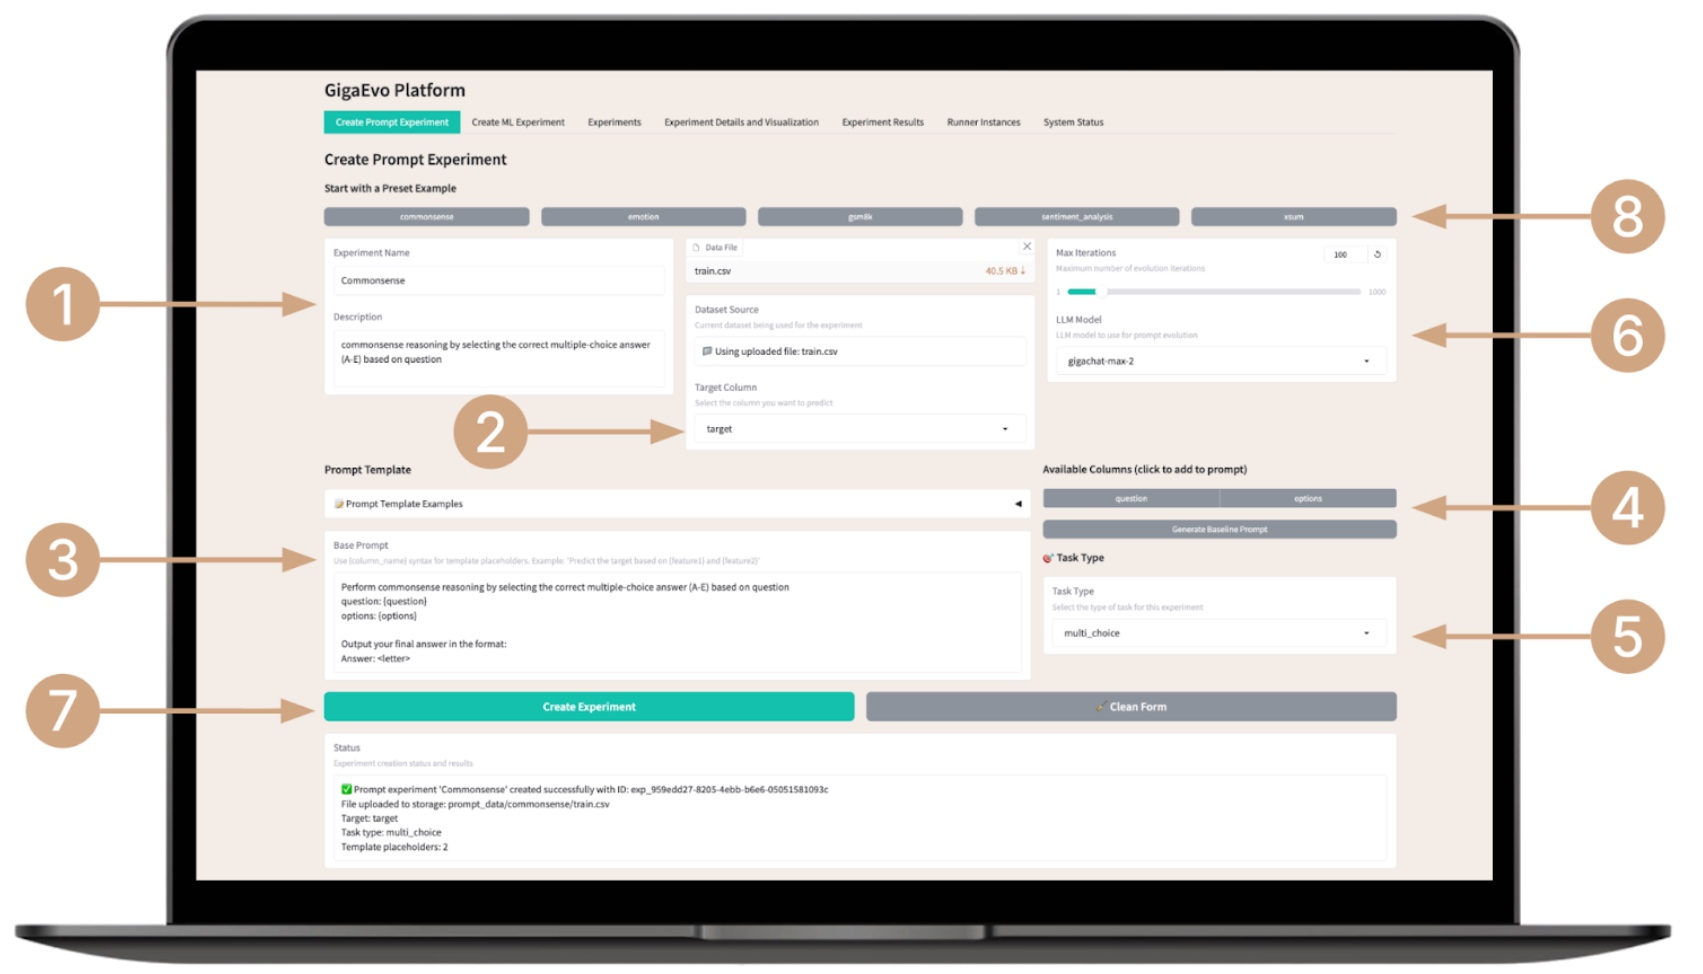
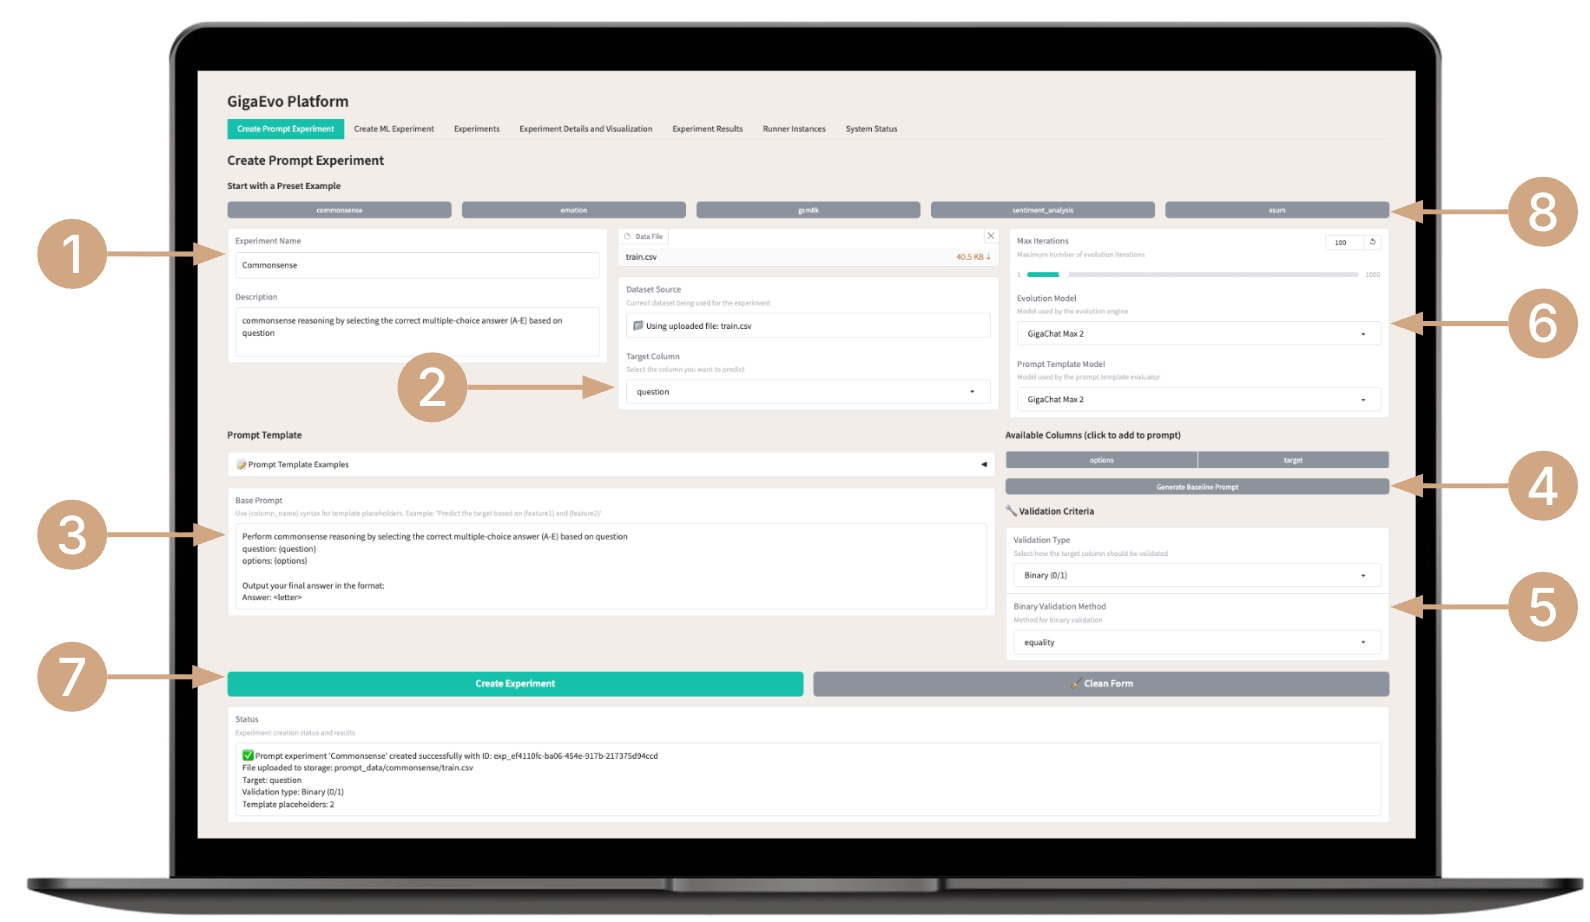
Evolution upd

Changed region(s): [[0.0, 0.0, 1.0, 1.0]]

diff --git a/docs/index.html b/docs/index.html
@@ -954,8 +954,23 @@ Answer : [expected answer]
 
                                 <ol start="4">
                                     <li>Вы можете использовать автоматическое генерирование базового промпта для эволюции из шаблона или автоматически добавить столбцы из загруженного документа</li>
-                                    <li>Выберите тип задачи ( <code>classification</code>, <code>multi_choice</code>, <code>math</code>, <code>summarization</code> )</li>
-                                    <li>Настройте дополнительные параметры — количество поколений, тип LLM-модели и другие опции.</li>
+                                    <li>Выберите тип валидации (binary, continuous) и метрику оценки, релевантную для вашей задачи:
+                                        <p>Бинарная (<strong>Binary (0/1)</strong> )- для задач с точным ответом </p>
+                                        <ul>
+                                            <li><strong>Equality</strong> - точное совпадение с эталоном</li>
+                                            <li><strong>Substring</strong> - совпадение пар слов</li>
+                                            <li><strong>RegExp</strong> - извлечение ответа по заданному шаблону</li>
+                                        </ul>
+                                        <p>Непрерывная (<strong>Continuous (0..1)</strong>) - для задач генерации текста </p>
+                                        <ul>
+                                            <li><strong>ROUGE-1</strong> - совпадение отдельных слов</li>
+                                            <li><strong>ROUGE-2</strong> - эталон содержится в ответе</li>
+                                            <li><strong>ROUGE-L</strong> - общая подпоследовательность</li>
+                                            <li><strong>BERTScore</strong> - общая подпоследовательность</li>
+                                            <li><strong>BLEU</strong> - качество перевода</li>
+                                        </ul>
+                                    </li>
+                                    <li>Настройте дополнительные параметры - количество поколений, тип LLM-модели для эволюции, тип LLM-модели для валидации.</li>
                                     <li>Создайте эксперимент по кнопке Create Experiment — система автоматически присвоит ему идентификатор формата.</li>
                                     <li>Можете выбрать шаблонный эксперимент из списка — система автоматически заполнит необходимые поля и загрузит данные, останется только запустить.</li>
                                 </ol>
@@ -967,18 +982,6 @@ Answer : [expected answer]
                                     <li><strong>Этапы многошаговых агентов</strong> - оптимизация промптов для сложных систем с несколькими этапами работы</li>
                                 </ul>
 
-                                <h5>Валидируем качество промптов</h5>
-                                
-                                <p>Система использует тот же подход, что и для ML-задач: создает популяцию промптов, оценивает их качество на ваших данных и итеративно улучшает решение.</p>
-                                
-                                <h5>GigaEvo поддерживает следующие режимы:</h5>
-    
-                                <ol>
-                                    <li><strong>Бинарная классификация текста</strong> (<code>classification</code>) - модель возвращает вероятность (0.0-1.0); таргет - 0 или 1</li>
-                                    <li><strong>Выбор из нескольких вариантов ответа</strong> (<code>multi_choice</code>) - модель возвращает букву ("A", "B", "C", "D", …); поддерживается до 26 классов (A-Z)</li>
-                                    <li><strong>Решение математических задач</strong> (<code>math</code>) - модель возвращает численный ответ (42, 3.1415, …)</li>
-                                    <li><strong>Суммаризация входного текста в свободном виде</strong> (<code>summarization</code>) - строка с кратким пересказом, сравниваем похожесть двух текстов</li>
-                                </ol>
                                 <h5>Используем результаты</h5>
     
                                 <ol>
@@ -989,13 +992,12 @@ Answer : [expected answer]
 
                                 <h5>Что планируем добавить</h5>
                                 
-                                <p>В следующих версиях будет добавлен функционал кастомного формата проверки вывода LLM:</p>
+                                <p>В следующих версиях будет добавлен функционал:</p>
                                 
                                 <ul>
-                                    <li>Структурированные форматы (JSON, XML)</li>
-                                    <li>Регулярные выражения</li>
+                                    <li>Структурированные форматы вывода (JSON, XML)</li>
                                     <li>Оценка другой языковой моделью (LLM-as-a-judge)</li>
-                                    <li>Свои собственные метрики на Python</li>
+                                    <li>Пользовательские метрики на Python</li>
                                 </ul>
 
                                 <p>Функция находится в активном развитии.</p>

diff --git a/docs/index-en.html b/docs/index-en.html
@@ -941,8 +941,23 @@ Answer : [expected answer]
 
                                 <ol start="4">
                                     <li>You can automatically generate the base prompt for evolution from a template or automatically add columns from the uploaded document.</li>
-                                    <li>Select the task type (<code>classification</code>, <code>multi_choice</code>, <code>math</code>, <code>summarization</code>).</li>
-                                    <li>Configure additional parameters — number of generations, LLM model type, and other options.</li>
+                                    <li>Select the type of validation (binary, continuous) and the evaluation metric relevant to your task:
+                                        <p>Binary (<strong>Binary (0/1)</strong>) - for tasks with an exact answer</p>
+                                        <ul>
+                                            <li><strong>Equality</strong> - exact match with the reference</li>
+                                            <li><strong>Substring</strong> - matching pairs of words</li>
+                                            <li><strong>RegExp</strong> - extract the answer using a given pattern</li>
+                                        </ul>
+                                        <p>Continuous (<strong>Continuous (0..1)</strong>) - for text generation tasks</p>
+                                        <ul>
+                                            <li><strong>ROUGE-1</strong> - match of individual words</li>
+                                            <li><strong>ROUGE-2</strong> - reference contained in the answer</li>
+                                            <li><strong>ROUGE-L</strong> - longest common subsequence</li>
+                                            <li><strong>BERTScore</strong> - semantic similarity</li>
+                                            <li><strong>BLEU</strong> - translation quality</li>
+                                        </ul>
+                                    </li>
+                                    <li>Configure additional parameters — number of generations, type of LLM model for evolution, and type of LLM model for validation.</li>
                                     <li>Create the experiment by clicking <strong>Create Experiment</strong> — the system will automatically assign it an identifier.</li>
                                     <li>You can also choose a template experiment from the list — the system will fill in the required fields and load the data; you’ll just need to run it.</li>
                                 </ol>
@@ -954,18 +969,6 @@ Answer : [expected answer]
                                     <li><strong>Multi-step agent stages</strong> – optimizing prompts for complex systems with several working stages.</li>
                                 </ul>
 
-                                <h5>Validating prompt quality</h5>
-                                
-                                <p>The system uses the same approach as ML tasks: it creates a population of prompts, evaluates their quality on your data, and iteratively improves the solution.</p>
-                                
-                                <h5>GigaEvo supports the following modes:</h5>
-    
-                                <ol>
-                                    <li><strong>Binary text classification</strong> (<code>classification</code>) – the model returns a probability (0.0–1.0); target - 0 or 1.</li>
-                                    <li><strong>Multiple-choice selection</strong> (<code>multi_choice</code>) – the model returns a letter ("A", "B", "C", "D", …); up to 26 classes (A–Z) are supported.</li>
-                                    <li><strong>Solving math problems</strong> (<code>math</code>) – the model returns a numeric answer (42, 3.1415, …).</li>
-                                    <li><strong>Free-form text summarization</strong> (<code>summarization</code>) – a string with a short summary, comparing the similarity of two texts.</li>
-                                </ol>
                                 <h5>Using the results</h5>
     
                                 <ol>
@@ -976,14 +979,13 @@ Answer : [expected answer]
 
                                 <h5>Planned features</h5>
                                 
-                                <p>Upcoming versions will include functionality for custom LLM output validation formats:</p>
-                                
-                                <ul>
-                                    <li>Structured formats (JSON, XML)</li>
-                                    <li>Regular expressions</li>
-                                    <li>Evaluation by another language model (LLM-as-a-judge)</li>
-                                    <li>Custom Python metrics</li>
-                                </ul>
+                                <p>In upcoming versions, the following functionality will be added:</p>
+
+                                    <ul>
+                                        <li>Structured output formats (JSON, XML)</li>
+                                        <li>Evaluation by another language model (LLM-as-a-judge)</li>
+                                        <li>Custom metrics in Python</li>
+                                    </ul>
 
                                 <p>The feature is under active development.</p>
                                 <p>Check the project roadmap and stay tuned for updates!</p>
